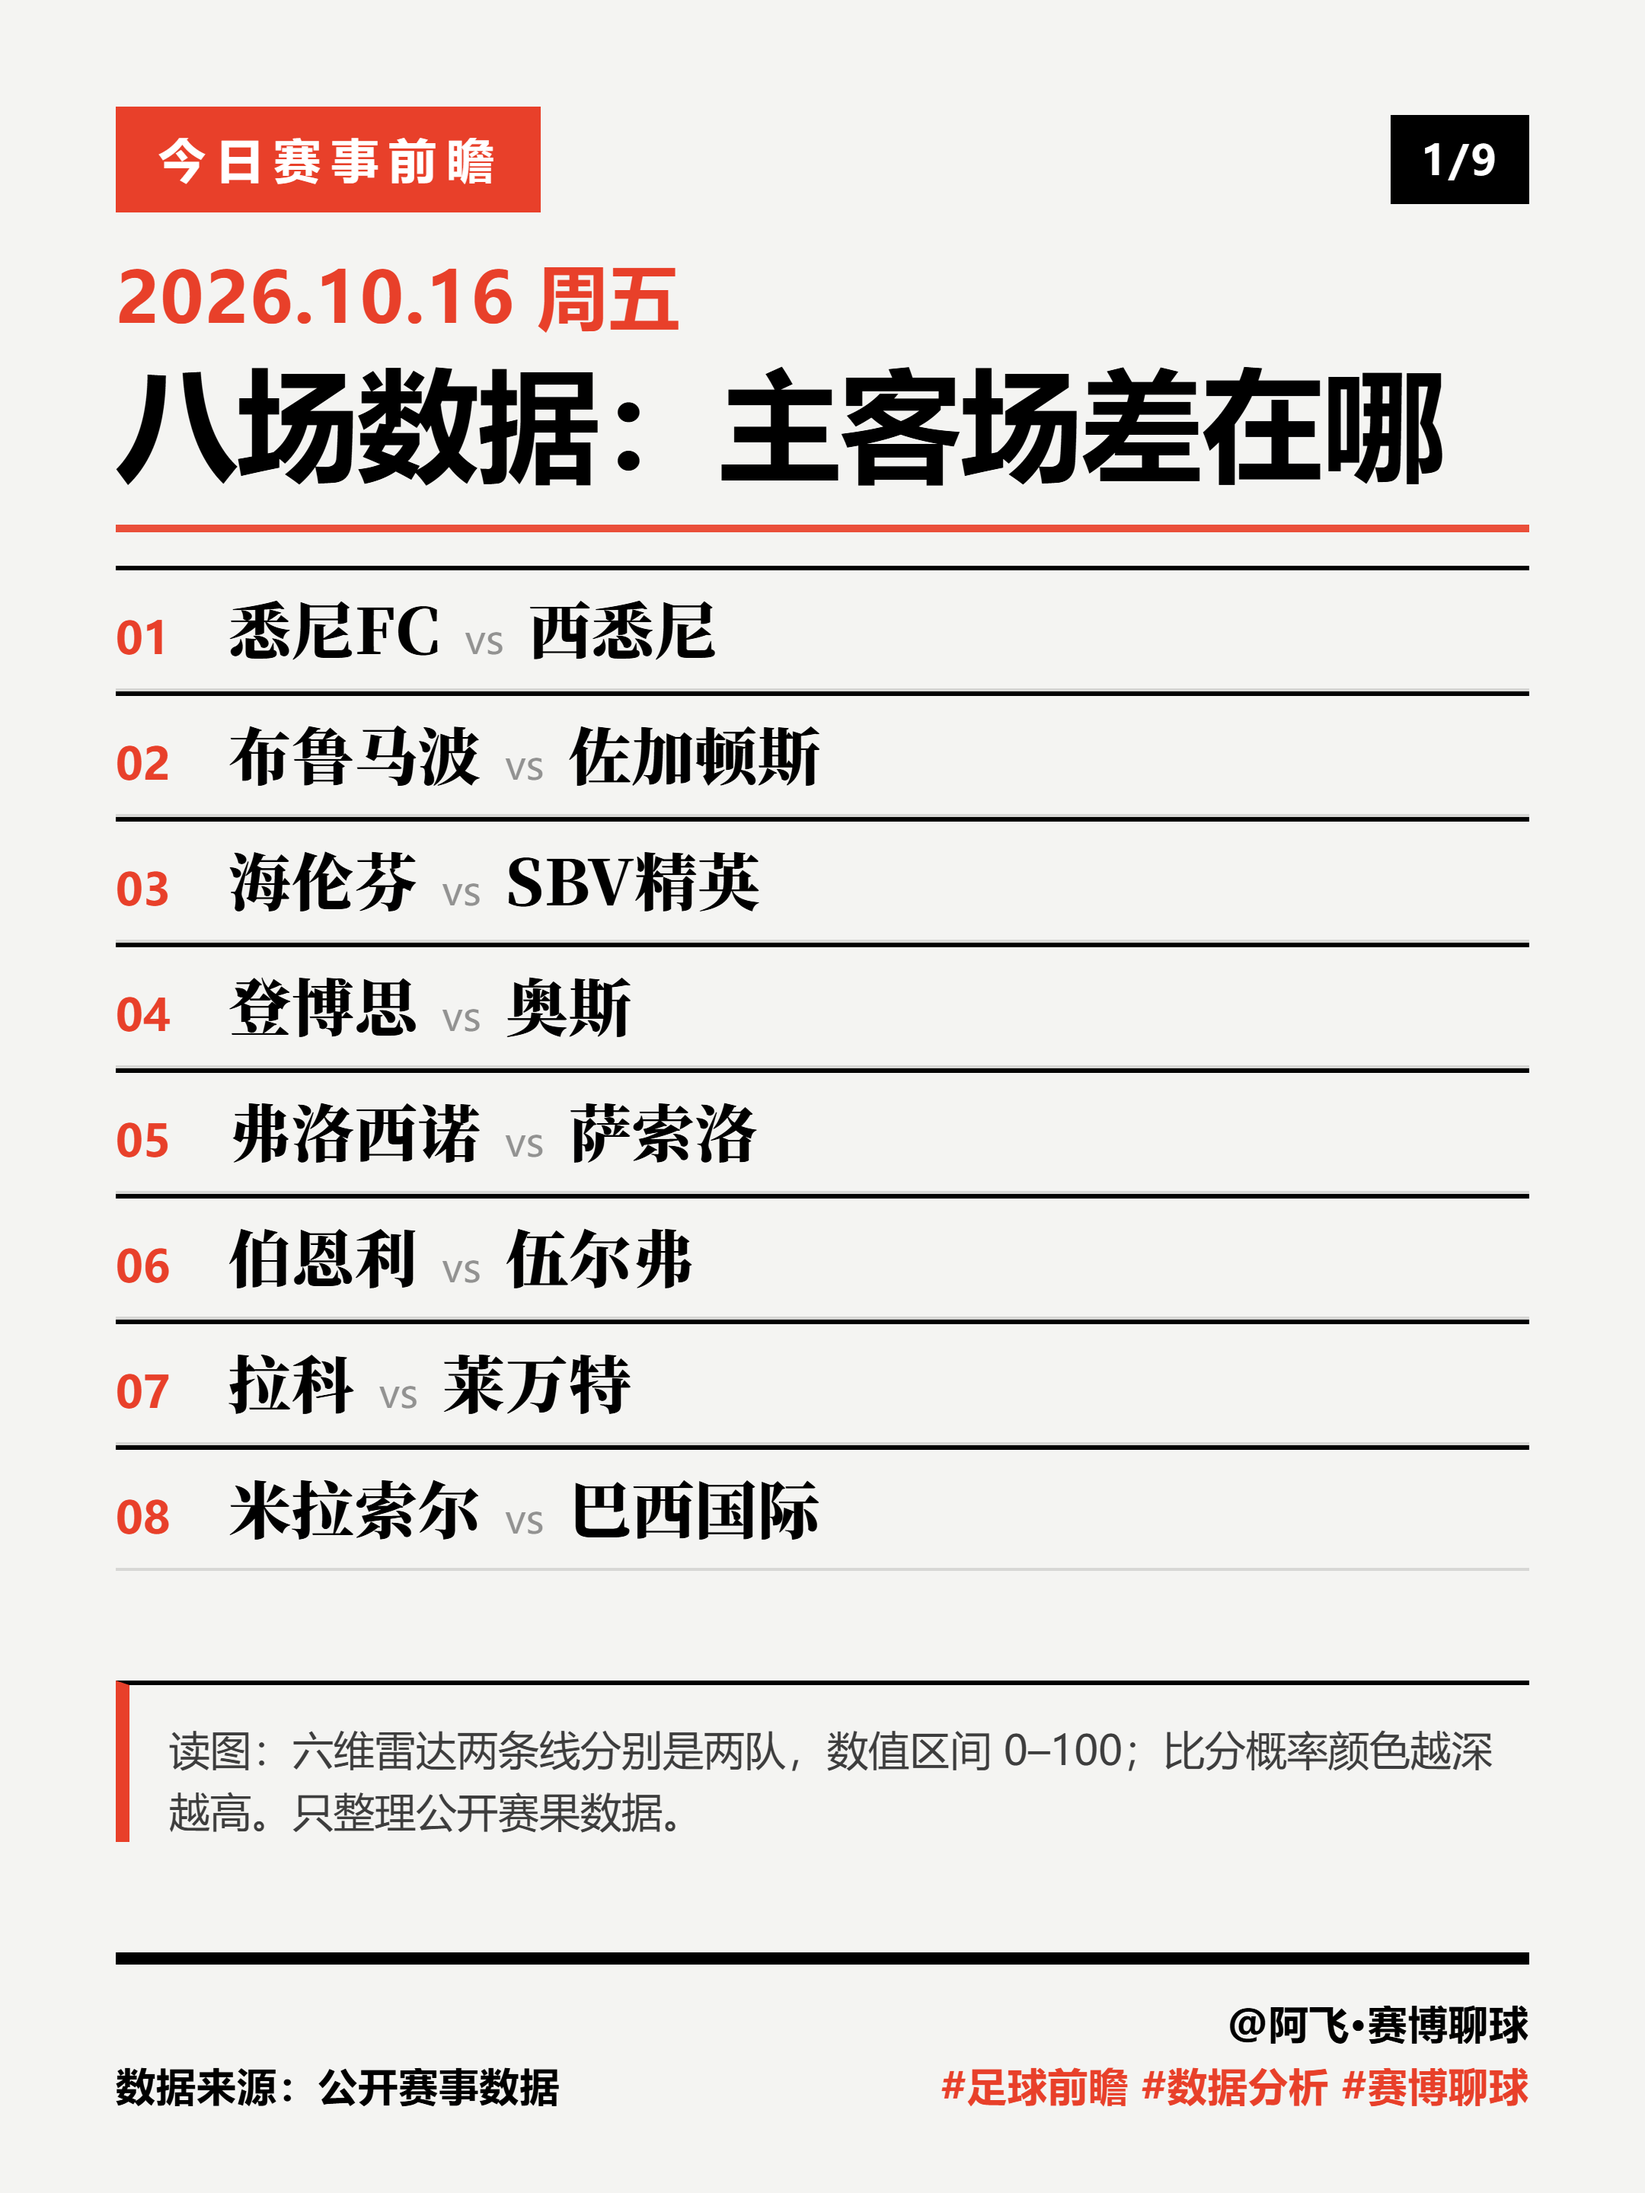
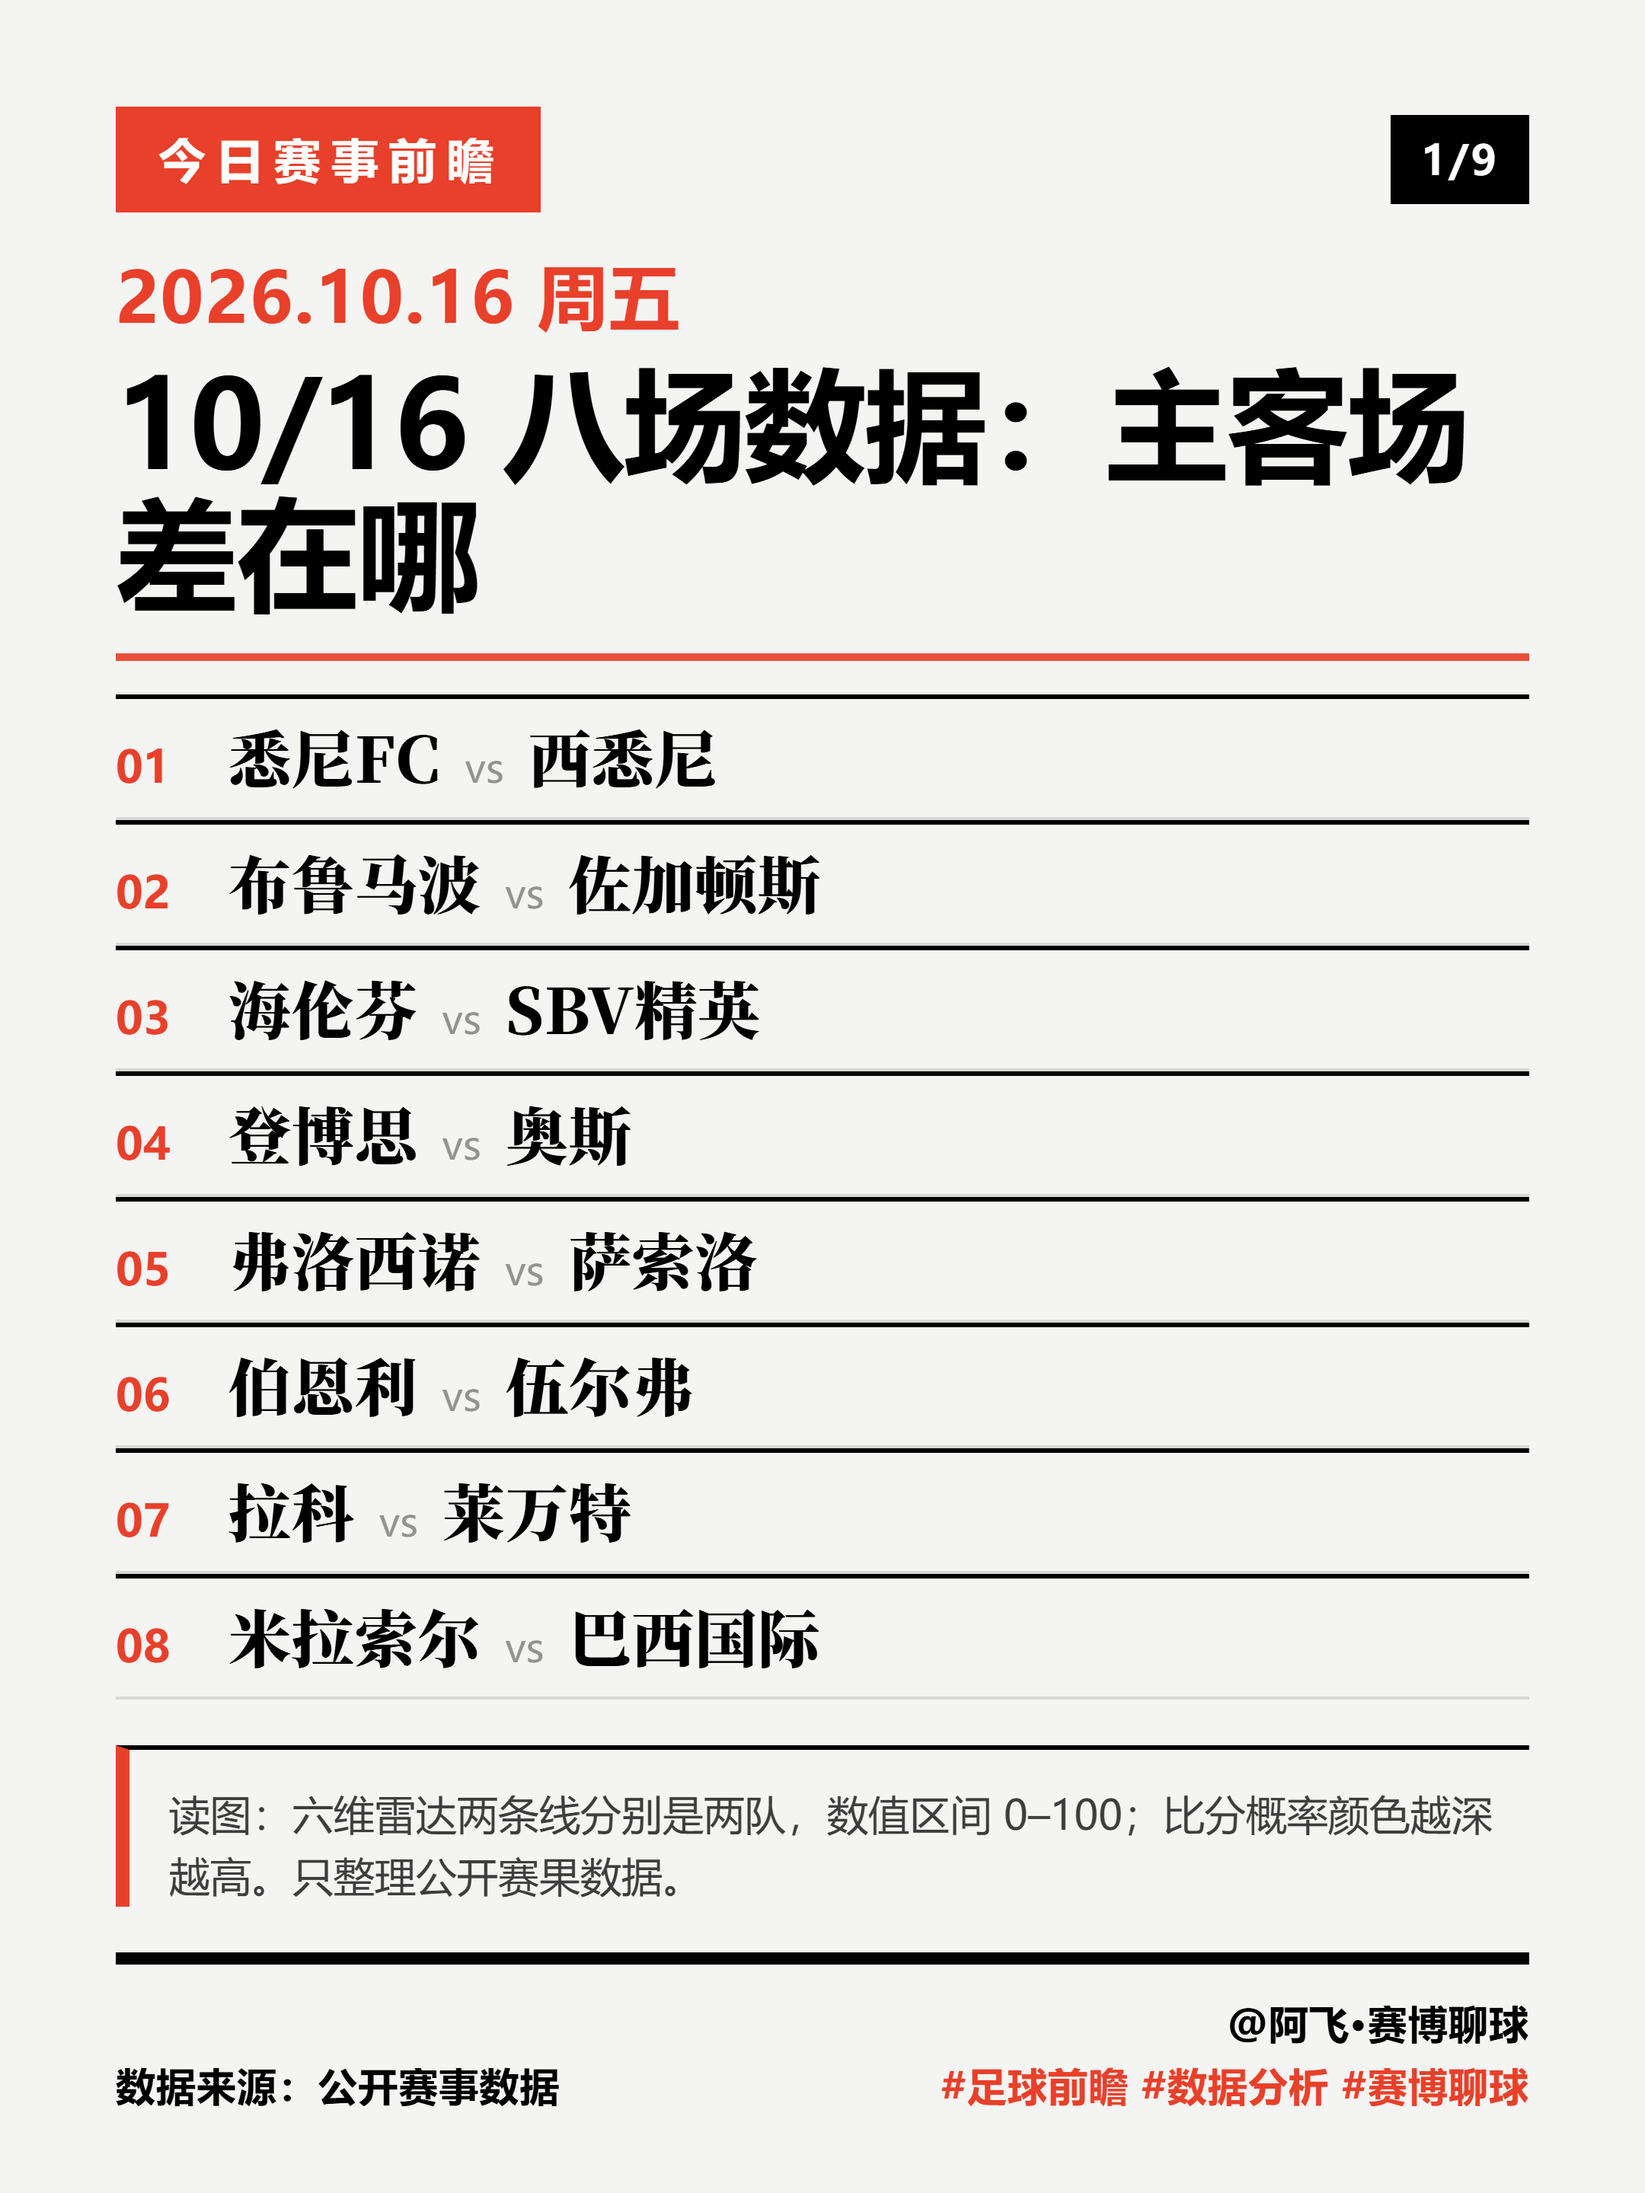
小红书周五八场：文案按新模板重排（逐场一段分析文 / 标题带日期 / 935 字）

Changed region(s): [[0.062, 0.1562, 0.9306, 0.875], [0.062, 0.5625, 0.0931, 0.5938]]

diff --git a/scripts/xhs_cards.py b/scripts/xhs_cards.py
@@ -409,19 +409,34 @@ def caption_text(data, cards):
     """小红书正文（可直接粘贴）。HTML 版渲染器也复用这个函数。"""
     caps = []
     if data.get("xhs_title"):
-        caps += ["【标题】%s（%d 字，小红书上限 20）" % (data["xhs_title"], len(data["xhs_title"])), ""]
-    caps += ["【正文】", data.get("title", ""), ""]
+        # 2026-10-16 用户定：小红书标题必须带日期（20 字内）
+        _t = data["xhs_title"]
+        _has_date = bool(re.search(r"\d{1,2}\s*[/月.\-]\s*\d{1,2}", _t))
+        caps += ["【标题】%s（%d 字，小红书上限 20%s）"
+                 % (_t, len(_t), "" if _has_date else "，⚠ 缺日期"), ""]
+    # caption_para（逐场分析段落，2026-10-16 用户给模板）在场时，正文首行与卡片说明都省掉
+    manual = [str(c.get("caption_para") or "").strip() for c in cards]
+    has_manual = any(manual)
+    if not has_manual:
+        caps += ["【正文】", data.get("title", ""), ""]
+    else:
+        caps += ["【正文】", ""]
     per = int(data.get("per_match_cards") or 1)
     mode = data.get("card_mode") or ""
     if mode == "data":
         # 2026-10-13 二审仍不过后的定版：正文**只做纯技术/数据描述**——不猜比分、不给胜率方向、不提模型推演
         # 2026-10-16：八场批次正文会顶到小红书 1000 字上限（实测 1028）→ 超过 6 场自动用紧凑措辞
         compact = len(cards) > 6
-        caps += ["每场两张图：数据卡（战绩 / 雷达 / 看点）＋后台模型卡（胜率 / 比分概率热力图）。"
-                 if per >= 2 else
-                 ("每场一张图：战绩 · 雷达 · 主客场攻防数据 · 看点" if compact else
-                  "每场一张图：近期战绩 · 六维雷达 · 主客场攻防数据 · 数据看点"), ""]
-        for c in cards:
+        if not has_manual:
+            caps += ["每场两张图：数据卡（战绩 / 雷达 / 看点）＋后台模型卡（胜率 / 比分概率热力图）。"
+                     if per >= 2 else
+                     ("每场一张图：战绩 · 雷达 · 主客场攻防数据 · 看点" if compact else
+                      "每场一张图：近期战绩 · 六维雷达 · 主客场攻防数据 · 数据看点"), ""]
+        for c, para in zip(cards, manual):
+            if para:
+                caps.append("%s 对 %s：%s" % (c.get("home", ""), c.get("away", ""), para))
+                caps.append("")
+                continue
             f = c.get("form") or {}
             h, a = f.get("home") or {}, f.get("away") or {}
             seg = []

diff --git a/📝文章/20261016/小红书_周五八场/文案.md b/📝文章/20261016/小红书_周五八场/文案.md
@@ -1,25 +1,22 @@
-【标题】八场数据：主客场差在哪（11 字，小红书上限 20）
+【标题】10/16 八场数据：主客场差在哪（17 字，小红书上限 20）
 
 【正文】
-10/16 八场数据：主客场差在哪
 
-每场一张图：战绩 · 雷达 · 主客场攻防数据 · 看点
+悉尼FC 对 西悉尼：主队本赛季主场只踢过一场且输了，客队客场两场进 5 球只丢 1 个（含一场俱乐部赛，成色打折）；同主客记录里客队的中场与状态都占先，主队只能靠防守拖住比赛。主队 4 人伤停集中在中后场，德比换人密，最吃不消。
 
-悉尼FC vs 西悉尼：悉尼FC主场 4胜4平2负（场均进 1.5 失 1.0）、西悉尼客场 4胜1平5负（场均进 1.4 失 1.5）。雷达最大差：交锋历史 60 对 20。交锋：近 5 次交锋 3胜1平1负。
+布鲁马波 对 佐加顿斯：客队客场三场只丢 1 个，但混着俱乐部赛与杯赛；赛季数据里客队的控球、射门与进球都占先，结构是一个终结点加一个组织点，主队只有单点。两队后场都缺人，先顶出去再打反击的路子都要打折扣。
 
-布鲁马波 vs 佐加顿斯：布鲁马波主场 4胜1平5负（场均进 1.8 失 2.1）、佐加顿斯客场 8胜0平2负（场均进 2.3 失 0.6）。雷达最大差：防守能力 30 对 80。交锋：近 5 次交锋 1胜1平3负。
+海伦芬 对 SBV精英：主队主场两场没赢，客队客场三场没输、进了 7 个，近十场场均比主队更整齐；两套口径在这一场互相不认，赛前落点跟数据本身对不上。主队进球压在一个人身上，客队三个点分摊，一边一把钥匙、一边三把。
 
-海伦芬 vs SBV精英：海伦芬主场 3胜4平3负（场均进 1.8 失 1.7）、SBV精英客场 5胜2平3负（场均进 2.4 失 1.6）。雷达最大差：进球稳定性 55 对 88。交锋：近 5 次交锋 2胜1平2负。
+登博思 对 奥斯：主队主场两场没输，客队客场两场全败、只进 1 个；但主队近十场失球比进球多，这一层没体现在赛前落点里。两队都是单点，差别在第二点，客队锋线还有两个人分担；交锋近五次没有平局。
 
-登博思 vs 奥斯：登博思主场 3胜2平5负（场均进 1.4 失 1.8）、奥斯客场 4胜0平6负（场均进 1.5 失 1.5）。雷达最大差：交锋历史 60 对 40。交锋：近 5 次交锋 3胜0平2负。
+弗洛西诺 对 萨索洛：主队主场三场全胜，但里面有一场是俱乐部赛，参考价值要打折，客队客场两场还没赢过；换一套同主客统计，两边位置正好翻过来，这种时候宁可承认没有把握。意大利媒体提到主队可能调整首发，客队一名球员伤缺。
 
-弗洛西诺 vs 萨索洛：弗洛西诺主场 5胜2平3负（场均进 1.7 失 1.2）、萨索洛客场 3胜3平4负（场均进 1.7 失 1.8）。雷达最大差：主客战力 67 对 10。交锋：近 5 次交锋 2胜1平2负。
+伯恩利 对 伍尔弗：主队主场两场全是平局，客队客场三场一胜两负、只进 1 个，两边进球能力都不支持大比分。火力都很散：主队三条线都有人进球，客队出口在中场和锋线，都没有一脚定音的人；交锋四场分差不超过一个球。
 
-伯恩利 vs 伍尔弗：伯恩利主场 1胜5平4负（场均进 1.3 失 1.7）、伍尔弗客场 5胜1平4负（场均进 1.6 失 1.3）。雷达最大差：交锋历史 20 对 40。交锋：近 5 次交锋 1胜2平2负。
+拉科 对 莱万特：主队主场两场只拿 1 分，客队客场两场也只拿 1 分、只进 1 个；进球是这一场最紧的资源，两边都得靠对方先犯错。主队进球几乎压在一个人身上，客队三个人分摊；主队还有 1 人伤停。
 
-拉科 vs 莱万特：拉科主场 3胜4平3负（场均进 1.3 失 1.2）、莱万特客场 3胜3平4负（场均进 1.6 失 1.8）。雷达最大差：防守能力 60 对 40。交锋：近 5 次交锋 1胜2平2负。
-
-米拉索尔 vs 巴西国际：米拉索尔主场 2胜5平3负（场均进 1.0 失 1.4）、巴西国际客场 2胜4平4负（场均进 1.1 失 1.4）。雷达最大差：交锋历史 67 对 0。交锋：近 3 次交锋 2胜1平0负。
+米拉索尔 对 巴西国际：主队主场两场不败，但近十场场均只进 1 个、丢 1.4 个，主场记录好看、进球其实很少；客队客场进 3 丢 3，是平的。巴西当地预览把它读成保级区直接对话，客队的丢球有一部分来自定位球防守，本场中场缺人。
 
 #足球前瞻 #数据分析 #赛博聊球
 数据来源：公开赛事数据

diff --git a/docs/日记/2026-10-15.md b/docs/日记/2026-10-15.md
@@ -1,8 +1,9 @@
 # 2026-10-15 工作日记
 
 <!-- AUTO:BEGIN｜由 scripts/journal.py 生成，勿手改此区块 -->
-## 📌 当日提交（9 条）
+## 📌 当日提交（10 条）
 
+- `68207c3` 进度同步 20261015 夜·三十二：周五八场小红书卡片出图（9 张，swiss＋版式 C）
 - `c5d45fc` 周五 B/C 两篇压缩字数（B 1653→1350、C 1624→1440），门禁 8/8、去重 0 命中；台账与 state 同步
 - `61149f0` 夜·三十 收尾：修正台账描述与新待办口径
 - `fb05801` 保存记忆/优化工作流：坑#73-#76 + WORKFLOW v2.5（R44 第九则口径/字数分档/门禁两坑/check_dup）+ 结构轮换台账建档 + state 落位
@@ -21,18 +22,17 @@
 - `docs\WORKFLOW.md`
 - `docs\日记\2026-10-15.md`
 
+### scripts（4 个文件）
+- `scripts\check_dup.py`
+- `scripts\model.py`
+- `scripts\xhs_cards.py`
+- `scripts\xhs_html.py`
+
 ### state（4 个文件）
 - `state\model-state.json`
 - `state\task-log.json`
 - `state\xhs_styles.json`
 - `state\xhs_templates.json`
-
-### 📚知识库（5 个文件）
-- `📚知识库\skills\afei-writing-standards\SKILL.md`
-- `📚知识库\公司工程\坑清单.md`
-- `📚知识库\写作指南\结构轮换台账.md`
-- `📚知识库\赛后校验\batch43_calibration.md`
-- `📚知识库\赛后校验\prob_log.tsv`
 
 ### 📝文章（15 个文件）
 - `📝文章\20261016\周五001+007+010_悉尼FC对西悉尼弗洛西诺对萨索洛拉科对莱万特_三场咬得紧平局那一格最靠前_赛事前瞻.md`
@@ -49,25 +49,27 @@
 - `📝文章\20261016\小红书_周五八场\08_周五010_拉科vs莱万特.png`
 - …（另有 3 个文件，需要时用 `git show --stat`）
 
+### 📚知识库（6 个文件）
+- `📚知识库\skills\afei-writing-standards\SKILL.md`
+- `📚知识库\公司工程\坑清单.md`
+- `📚知识库\写作指南\小红书图文卡片.md`
+- `📚知识库\写作指南\结构轮换台账.md`
+- `📚知识库\赛后校验\batch43_calibration.md`
+- `📚知识库\赛后校验\prob_log.tsv`
+
 ### (根目录)（1 个文件）
 - `AGENTS.md`
-
-### scripts（4 个文件）
-- `scripts\check_dup.py`
-- `scripts\model.py`
-- `scripts\xhs_cards.py`
-- `scripts\xhs_html.py`
 
 ## 📊 状态快照
 
 - 批次：**batch37**（2026-10-07）
 - 累计场次：**396**　方向正确：190（48.0%）
-- 候选/正式规则：26 条　待办事项：17 条　待校验文章：3 条
+- 候选/正式规则：26 条　待办事项：17 条　待校验文章：4 条
 - 模型版本：2.10.0
 
 ## 🔗 交接指针
 
-- 最新交接节：## 2026-10-15 夜·三十二 — 周五八场小红书卡片出图（用户：把以上周五各场制作层信息卡片发布小红书）
+- 最新交接节：## 2026-10-16 夜·三十三 — 小红书文案改「逐场一段分析文」（用户：文案可按下面的模板来写…）
 
 <!-- AUTO:END -->
 
